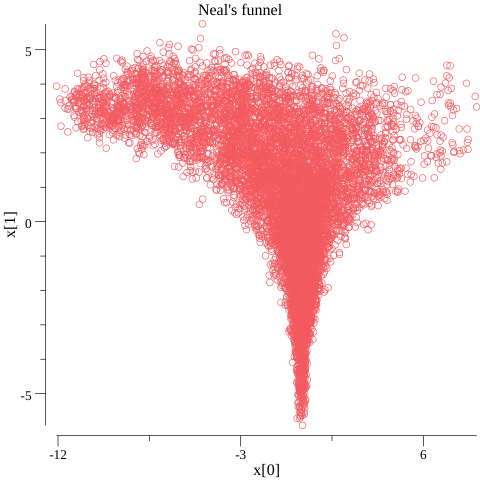
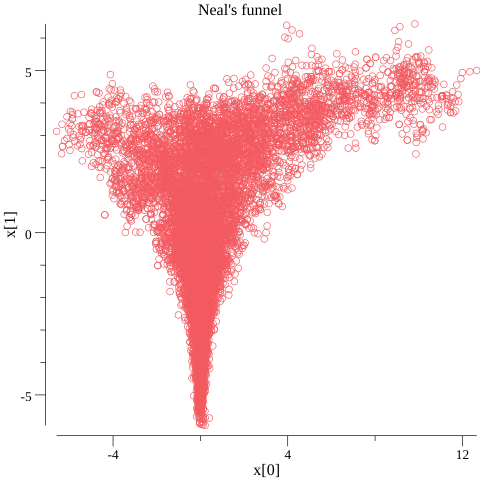
adding differentiated models to the repo for smooth build

diff --git a/gmm/model/ad/model.go b/gmm/model/ad/model.go
@@ -1,0 +1,92 @@
+package model
+
+import (
+	"bitbucket.org/dtolpin/infergo/ad"
+	. "bitbucket.org/dtolpin/infergo/dist/ad"
+	"bitbucket.org/dtolpin/infergo/mathx"
+	"math"
+)
+
+type Model struct {
+	Data  []float64
+	NComp int
+	Alpha float64
+	Tau   float64
+}
+
+func (m *Model) Observe(x []float64) float64 {
+	if ad.Called() {
+		ad.Enter()
+	} else {
+		ad.Setup(x)
+	}
+	var ll float64
+	ad.Assignment(&ll, ad.Value(0.0))
+	var mu []float64
+
+	mu = make([]float64, m.NComp)
+	var sigma []float64
+
+	sigma = make([]float64, m.NComp)
+	var ix int
+
+	ix = 0
+	for j := range mu {
+		ad.Assignment(&mu[j], &x[ix])
+		ix = ix + 1
+		ad.Assignment(&sigma[j], ad.Elemental(math.Exp, &x[ix]))
+		ix = ix + 1
+	}
+	var dir Dirichlet
+
+	dir = Dirichlet{N: m.NComp}
+	var alpha []float64
+
+	alpha = make([]float64, dir.N)
+	for j := range alpha {
+		ad.Assignment(&alpha[j], &m.Alpha)
+	}
+
+	if m.Tau > 0 {
+		ad.Assignment(&ll, ad.Arithmetic(ad.OpAdd, &ll, ad.Call(func(_ []float64) {
+			Normal.Logps(0, 0, x[ix:]...)
+		}, 2, ad.Value(0.), ad.Arithmetic(ad.OpDiv, ad.Value(1), &m.Tau))))
+	}
+	var p [][]float64
+
+	p = make([][]float64, len(m.Data))
+	var theta [][]float64
+
+	theta = make([][]float64, len(m.Data))
+	for i := range m.Data {
+		p[i] = make([]float64, m.NComp)
+		theta[i] = make([]float64, m.NComp)
+
+		theta[i] = x[ix : ix+m.NComp]
+		ad.Call(func(_ []float64) {
+			dir.SoftMax(x[ix:ix+m.NComp], p[i])
+		}, 0)
+		ad.Assignment(&ll, ad.Arithmetic(ad.OpAdd, &ll, ad.Call(func(_ []float64) {
+			dir.Logp(alpha, p[i])
+		}, 0)))
+		ix = ix + m.NComp
+	}
+
+	for i := range m.Data {
+		var l float64
+		for j := 0; j != m.NComp; j = j + 1 {
+			var lj float64
+			ad.Assignment(&lj, ad.Arithmetic(ad.OpAdd, ad.Call(func(_ []float64) {
+				Normal.Logp(0, 0, 0)
+			}, 3, &mu[j], &sigma[j], &m.Data[i]), &theta[i][j]))
+
+			if j == 0 {
+				ad.Assignment(&l, &lj)
+			} else {
+				ad.Assignment(&l, ad.Elemental(mathx.LogSumExp, &l, &lj))
+			}
+		}
+		ad.Assignment(&ll, ad.Arithmetic(ad.OpAdd, &ll, &l))
+	}
+	return ad.Return(&ll)
+}

diff --git a/funnel/model/ad/model.go b/funnel/model/ad/model.go
@@ -1,0 +1,57 @@
+package model
+
+import (
+	"bitbucket.org/dtolpin/infergo/ad"
+	. "bitbucket.org/dtolpin/infergo/dist/ad"
+	"math"
+)
+
+type NaiveModel struct{}
+
+func (m NaiveModel) Observe(parameters []float64) float64 {
+	if ad.Called() {
+		ad.Enter()
+	} else {
+		ad.Setup(parameters)
+	}
+	var ll float64
+	ad.Assignment(&ll, ad.Value(0.0))
+	var y float64
+	ad.Assignment(&y, &parameters[0])
+	var x []float64
+
+	x = parameters[1:]
+	ad.Assignment(&ll, ad.Arithmetic(ad.OpAdd, &ll, ad.Call(func(_ []float64) {
+		Normal.Logp(0, 0, 0)
+	}, 3, ad.Value(0), ad.Value(3), &y)))
+	ad.Assignment(&ll, ad.Arithmetic(ad.OpAdd, &ll, ad.Call(func(_ []float64) {
+		Normal.Logps(0, 0, x...)
+	}, 2, ad.Value(0), ad.Elemental(math.Exp, ad.Arithmetic(ad.OpMul, ad.Value(0.5), &y)))))
+
+	return ad.Return(&ll)
+}
+
+type ReparModel struct{}
+
+func (m ReparModel) Observe(parameters []float64) float64 {
+	if ad.Called() {
+		ad.Enter()
+	} else {
+		ad.Setup(parameters)
+	}
+	var ll float64
+	ad.Assignment(&ll, ad.Value(0.0))
+	var y float64
+	ad.Assignment(&y, &parameters[0])
+	var x []float64
+
+	x = parameters[1:]
+	ad.Assignment(&ll, ad.Arithmetic(ad.OpAdd, &ll, ad.Call(func(_ []float64) {
+		Normal.Logp(0, 0, 0)
+	}, 3, ad.Value(0), ad.Value(1), &y)))
+	ad.Assignment(&ll, ad.Arithmetic(ad.OpAdd, &ll, ad.Call(func(_ []float64) {
+		Normal.Logps(0, 0, x...)
+	}, 2, ad.Value(0), ad.Value(1))))
+
+	return ad.Return(&ll)
+}

diff --git a/lr-gonum/model/ad/model.go b/lr-gonum/model/ad/model.go
@@ -1,0 +1,47 @@
+package model
+
+import (
+	"bitbucket.org/dtolpin/infergo/ad"
+	. "bitbucket.org/dtolpin/infergo/dist/ad"
+	"math"
+)
+
+type Model struct {
+	Data [][]float64
+}
+
+func (m *Model) Observe(x []float64) float64 {
+	if ad.Called() {
+		ad.Enter()
+	} else {
+		ad.Setup(x)
+	}
+	var ll float64
+	ad.Assignment(&ll, ad.Value(0.))
+	var alpha float64
+	ad.Assignment(&alpha, &x[0])
+	var beta float64
+	ad.Assignment(&beta, &x[1])
+	var sigma float64
+	ad.Assignment(&sigma, ad.Elemental(math.Exp, &x[2]))
+
+	for i := range m.Data {
+		ad.Assignment(&ll, ad.Arithmetic(ad.OpAdd, &ll, ad.Call(func(_ []float64) {
+			Normal.Logp(0, 0, 0)
+		}, 3, ad.Call(func(_ []float64) {
+			m.Simulate(0, 0, 0)
+		}, 3, &m.Data[i][0], &alpha, &beta), &sigma, &m.Data[i][1])))
+	}
+
+	return ad.Return(&ll)
+}
+
+func (m *Model) Simulate(x, alpha, beta float64) (y float64) {
+	if ad.Called() {
+		ad.Enter(&x, &alpha, &beta)
+	} else {
+		panic("Simulate called outside Observe.")
+	}
+	ad.Assignment(&y, ad.Arithmetic(ad.OpAdd, &alpha, ad.Arithmetic(ad.OpMul, &beta, &x)))
+	return ad.Return(&y)
+}

diff --git a/lr/model/ad/model.go b/lr/model/ad/model.go
@@ -1,0 +1,47 @@
+package model
+
+import (
+	"bitbucket.org/dtolpin/infergo/ad"
+	. "bitbucket.org/dtolpin/infergo/dist/ad"
+	"math"
+)
+
+type Model struct {
+	Data [][]float64
+}
+
+func (m *Model) Observe(x []float64) float64 {
+	if ad.Called() {
+		ad.Enter()
+	} else {
+		ad.Setup(x)
+	}
+	var ll float64
+	ad.Assignment(&ll, ad.Value(0.))
+	var alpha float64
+	ad.Assignment(&alpha, &x[0])
+	var beta float64
+	ad.Assignment(&beta, &x[1])
+	var sigma float64
+	ad.Assignment(&sigma, ad.Elemental(math.Exp, &x[2]))
+
+	for i := range m.Data {
+		ad.Assignment(&ll, ad.Arithmetic(ad.OpAdd, &ll, ad.Call(func(_ []float64) {
+			Normal.Logp(0, 0, 0)
+		}, 3, ad.Call(func(_ []float64) {
+			m.Simulate(0, 0, 0)
+		}, 3, &m.Data[i][0], &alpha, &beta), &sigma, &m.Data[i][1])))
+	}
+
+	return ad.Return(&ll)
+}
+
+func (m *Model) Simulate(x, alpha, beta float64) (y float64) {
+	if ad.Called() {
+		ad.Enter(&x, &alpha, &beta)
+	} else {
+		panic("Simulate called outside Observe.")
+	}
+	ad.Assignment(&y, ad.Arithmetic(ad.OpAdd, &alpha, ad.Arithmetic(ad.OpMul, &beta, &x)))
+	return ad.Return(&y)
+}

diff --git a/wasm/model/ad/model.go b/wasm/model/ad/model.go
@@ -1,0 +1,27 @@
+package model
+
+import (
+	"bitbucket.org/dtolpin/infergo/ad"
+	. "bitbucket.org/dtolpin/infergo/dist/ad"
+	"math"
+)
+
+type Model struct {
+	Data []float64
+}
+
+func (m *Model) Observe(x []float64) float64 {
+	if ad.Called() {
+		ad.Enter()
+	} else {
+		ad.Setup(x)
+	}
+	var ll float64
+	ad.Assignment(&ll, ad.Call(func(_ []float64) {
+		Normal.Logps(0, 0, x...)
+	}, 2, ad.Value(0), ad.Value(1)))
+	ad.Assignment(&ll, ad.Arithmetic(ad.OpAdd, &ll, ad.Call(func(_ []float64) {
+		Normal.Logps(0, 0, m.Data...)
+	}, 2, &x[0], ad.Elemental(math.Exp, &x[1]))))
+	return ad.Return(&ll)
+}
